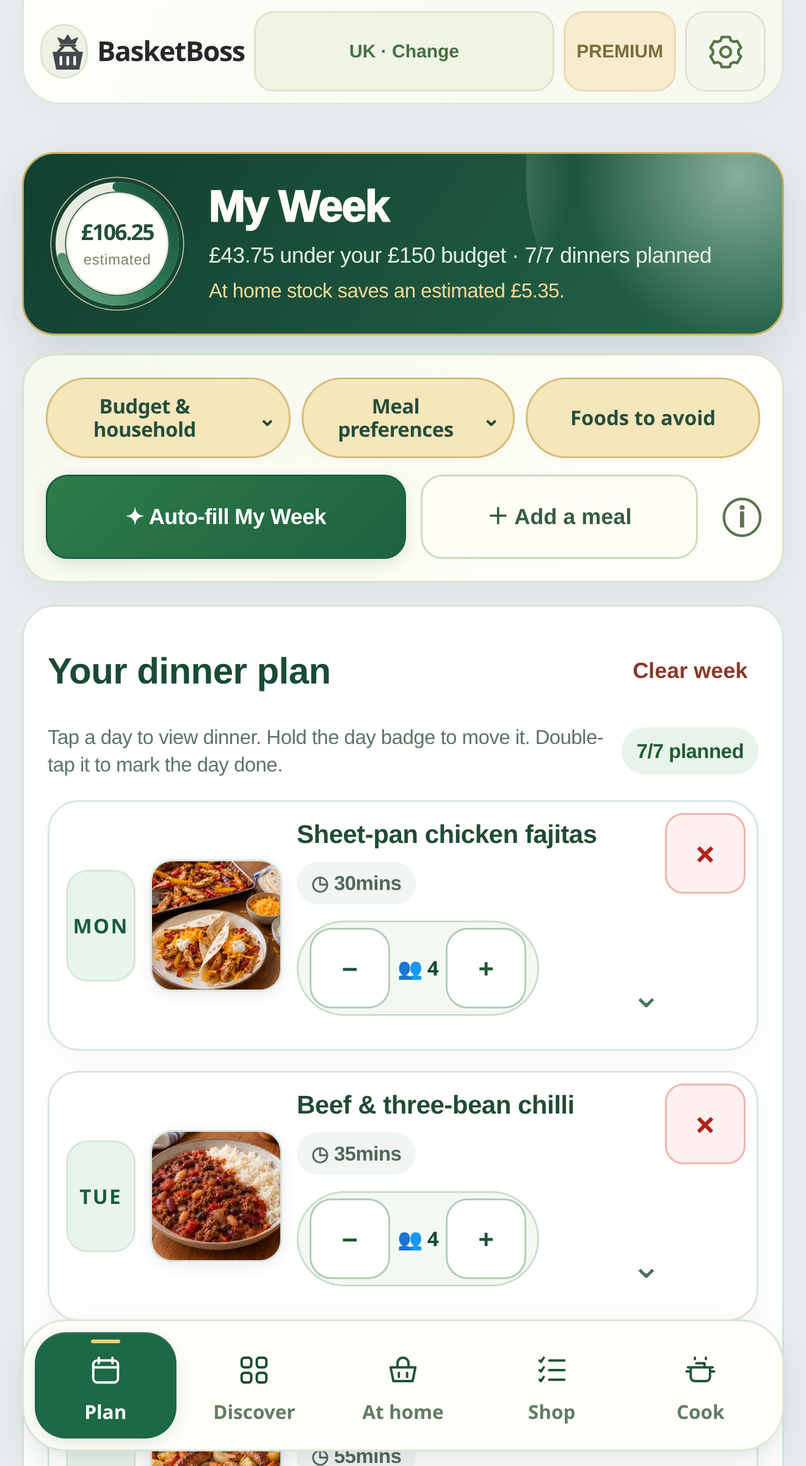
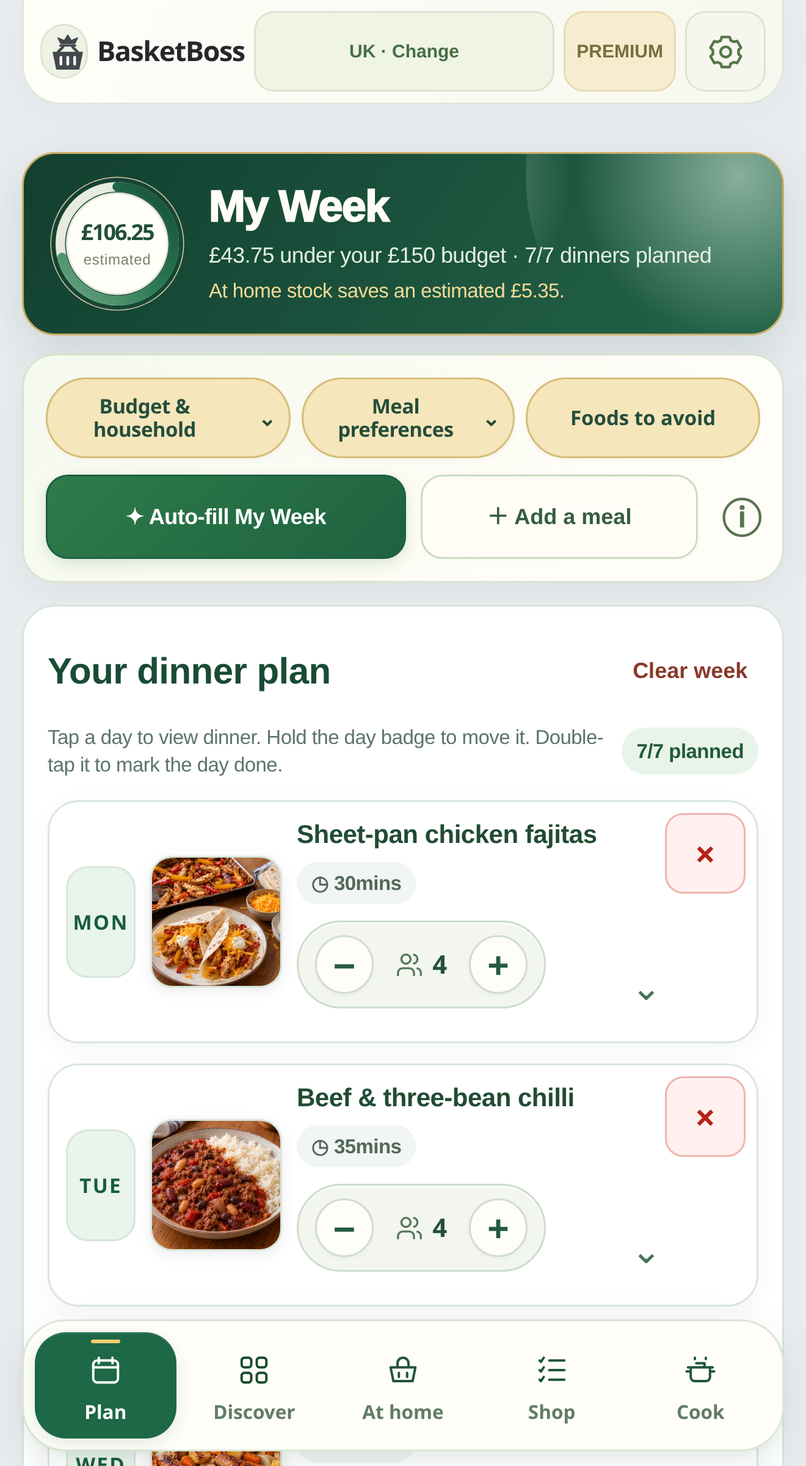
Refine per-meal servings pills with smaller circular controls

diff --git a/service-worker.js b/service-worker.js
@@ -2,10 +2,10 @@
  * Caches app pages and assets only; no personal localStorage or sync data is transmitted.
  * Food photographs outside the preview are cached only after being viewed, where supported.
  */
-const CACHE = 'basketboss-premium-secure-shell-20261105-v64-daydone1';
+const CACHE = 'basketboss-premium-secure-shell-20261105-v65-servings1';
 const IMAGE_CACHE = 'basketboss-v20261102-audited-images-v2';
 const APP_BASE = new URL(self.registration.scope);
-const CORE = ['bb-cook-method.js','bb-cook-method.js?v=20261105-cook1','bb-receipt-inventory-core.mjs?v=20261105-business1','bb-yellow-stickers.js','bb-yellow-stickers-ui.js','bb-yellow-stickers-ui.css','bb-reduced-stock.js','bb-reduced-purchases.js','bb-yellow-stickers.js?v=20261105-reduced1','bb-yellow-stickers-ui.js?v=20261105-preflight1','bb-yellow-stickers-ui.css?v=20261105-reduced1','bb-reduced-stock.js?v=20261105-business1','bb-reduced-purchases.js?v=20261105-business1','bb-kitchen-prices.js','bb-kitchen-prices.js?v=20261105-shop-confirm1','bb-shop-subcategories.js','bb-shop-subcategories.css','bb-essentials-confirm.js','bb-essentials-confirm.css','bb-shop-subcategories.js?v=20261105-shop-confirm1','bb-shop-subcategories.css?v=20261105-shop-confirm1','bb-essentials-confirm.js?v=20261105-preflight1','bb-essentials-confirm.css?v=20261105-shop-confirm1','bb-kitchen-review.js','bb-kitchen-review.css','bb-kitchen-review.js?v=20261105-preflight1','bb-kitchen-review.css?v=20261105-shop-confirm1','bb-dietary-preferences.js','bb-meal-preferences.js','bb-meal-preferences.css','bb-dietary-preferences.js?v=20261104-diets1','bb-meal-preferences.js?v=20261104-diets1','bb-meal-preferences.css?v=20261104-diets1','bb-auth-callback.js','bb-auth-flow.js','bb-auth-flow.css','bb-auth-sdk.js','bb-auth-callback.js?v=20261104-auth1','bb-auth-flow.js?v=20261105-preflight1','bb-auth-flow.css?v=20261104-auth1','bb-auth-sdk.js?v=20261104-auth1','bb-account-polish.js?v=20261105-preflight1','bb-tab-swipe.js','bb-tab-swipe.js?v=20261104-swipe1','bb-tab-viewport.js?v=20261105-preflight1','bb-saved-weeks.js','bb-saved-weeks.css','bb-saved-weeks.js?v=20261103-weeks1','bb-saved-weeks.css?v=20261103-weeks1','bb-pantry-camera.js','bb-pantry-camera.js?v=20261102-camera1','bb-pantry-camera.css','bb-pantry-camera.css?v=20261102-camera1','bb-cook-experience.css','bb-cook-experience.css?v=20261105-cook1','bb-account-deletion.css?v=20261101-recovery1','bb-account-deletion.js?v=20261101-apple1','bb-food-visuals.css?v=20261031-food2','bb-food-visuals.js?v=20261031-food2','bb-navigation-polish.js?v=20261101-polish1','bb-ux-cleanup.css?v=20261028-ux1','bb-cold-preview.css?v=20261028-conversion-1','bb-funnel.css?v=20261028-v1','bb-intro-trial.css?v=bb-account-first-20261027-v1','bb-us-market.css?v=173us1','bb-install.css?v=173install1','bb-welcome-splash.css?v=20261101-brand4','bb173-final-polish.css?v=173polish1','bb-premium-features.css?v=bbprodmodal20261027','bb-premium-preview-config.js?v=1743leftoverpremium','bb174-trial-ux.css?v=174trial1','bb174-trial-ux.js?v=bbprodmodal20261027','bb-real-app-tour.css?v=17513real1','bb-beta-six-fixes.css?v=20261104-essentials1','bb-beta-launch-polish.css?v=1768','bb-consolidated-qa.css?v=20261025-r1','bb-beta-five.css?v=20261025-five','bb-purchase-choice.css?v=20261025-choice-v2','bb-membership-settings.css?v=bbsecure1','bb-membership-settings.js?v=20261101-apple1','basketboss-aisles-v20.js?v=bb82-aisle-20261024','bb-supermarkets.js?v=20261105-reduced1','bb-receipt-quantity.js?v=20261105-business1','bb-duration.js?v=20261102-duration2','bb-price-scan.js?v=20261105-reduced1','basketboss-pricing-v19.js?v=20261105-business1','bb-serving-scale.js?v=20261103-kitchen2','bb-recipe-measures.js?v=20261102-measures1','bb-cook-step-layout.js?v=20261105-cook1','bb-cook-pantry.js?v=20261102-pantry1','bb-cook-clarity.css?v=20261102-loop2','bb-weekly-essentials.js?v=20261105-shop-confirm1','bb-receipt-scanner.js?v=20261105-preflight1','bb-receipt-scanner.css?v=20261031-receipt-pantry','shopping-inventory.js?v=20261105-business1','bb-intro-trial.js?v=bb-account-first-20261027-v1','bb-how-it-works.css?v=20261102-guide1','bb-how-it-works.js?v=20261105-reduced1','bb-cold-preview.js?v=20261028-conversion-1','bb-funnel.js?v=20261028-v1','bb-ux-cleanup.js?v=20261028-ux1','bb-us-market.js?v=20261102-loop2','bb-install.js?v=173install1','bb-welcome-splash.js?v=20261101-signin2','bb-real-app-tour-v82.js?v=20261105-reduced1','bb-cloudflare-qa.js?v=17513-owner1','bb-mobile-beta-polish.js?v=20261024-1','bb-beta-six-fixes.js?v=20261105-shop-confirm1','bb-beta-launch-polish.js?v=1768','bb-consolidated-qa.js?v=20261025-r1','bb-beta-five-nav.js?v=20261025-five','bb-settings-premium-polish.css?v=20261026a','bb-mobile-three-20261027.css?v=20261027-mobile-3','bb-shop-cook-clarity.css?v=20261028-r1','bb-servings-mobile-polish.css?v=20261029-preview2','bb-partner-signup-prompt.css?v=partner-main1','bb-partner-signup-prompt.js?v=partner-main1','bb-household-sharing.css?v=20261030-rc1','bb-household-sharing.js?v=20261031-account-compliance','bb-recipe-ingredient-layout.css?v=20261031-sidebar','bb-pantry-deduction.js?v=20261105-business1','bb-featured-framing.js?v=20261102-frame1','bb-account-deletion.js?v=20261101-recovery1','make-a-meal.css?v=17.3-unified3','premium-upgrade.css?v=bb173premium1','bb-light-meal.css?v=173-light-1','bb-premium-features.css?v=173premiumfree1','bb-premium-preview-config.js?v=173premiumfree1','bb174-trial-ux.js?v=174trial1','bb-mobile-beta-polish.css?v=20261024-1','bb-servings-mobile-polish.css?v=20261029-preview1','bb-premium-feature-badges.js?v=20261101-badge1','bb-cook-studio.css?v=20261101-cook1','bb-cook-studio.js?v=20261101-cook1','bb-cook-result.css?v=20261101-cook1','bb-cook-result.js?v=20261105-cook1','bb-meal-image.css?v=20261101-cook1','bb-meal-image.js?v=20261101-cook1','bb-account-polish.css?v=20261105-preflight1','bb-premium-preview-config.js?v=1743-premium-leftovers','make-a-meal.js?v=20261105-cook1','premium-upgrade.js?v=bb-native-ai-open-20261027-v1','bb-real-app-tour.js?v=17513real1','bb-beta-landing.css?v=20261030-finalmobile4','bb-smart-receipt-landing.css?v=20261031-family-preview','bb-family-landing.css?v=20261105-simple1','bb-family-landing.js?v=20261105-simple1','basketboss-aisles-v20.js?v=bb-meal-packs-20261031','bb-duration.js?v=20261102-durations1','bb-beta-landing.js?v=20261103-feedback1','bb-featured-framing.js','bb-duration.js','bb-recipe-measures.js','bb-cook-method.js','bb-cook-step-layout.js','bb-cook-pantry.js','bb-cook-clarity.css','bb-receipt-quantity.js','bb-pantry-deduction.js','bb-how-it-works.js','bb-how-it-works.css','bb-cook-speech-text.js','bb-cook-speech-text.js?v=20261105-cook1','bb-cook-tts.js','bb-cook-assistant.js','bb-cook-assistant.js?v=20261105-cook1','bb-cook-tts.js?v=20261104-mentor-stream1','bb-session.js','bb-session.js?v=20261102-session1','bb-plan-move.js','bb-plan-move.js?v=20261102-drag1','bb-plan-drag.js','bb-plan-drag.js?v=20261105-daydone1','bb-plan-drag.css','bb-plan-drag.css?v=20261105-daydone1','bb-recipe-editorial.js','bb-recipe-editorial.js?v=20261102-editorial4','bb-recipe-planning.js?v=20261102-editorial3','bb-shared-shopping.js','bb-shared-shopping.css','bb-shared-shopping.js?v=20261102-loop2','bb-shared-shopping.css?v=20261102-loop2','bb-home.js','bb-home.js?v=20261105-business1','bb-kitchen-choice-rules.mjs','bb-navigation-polish.css?v=20261102-loop3','bb-simple-layout.js','bb-simple-layout.css','bb-simple-layout.js?v=20261101-simple1','bb-simple-layout.css?v=20261102-loop2','bb-weekly-shop.js','bb-weekly-shop.css','bb-weekly-shop.js?v=20261105-preflight1','bb-weekly-shop.css?v=20261101-weeklyshop1','bb-kitchen-essentials.js','bb-kitchen-essentials.css','bb-keyboard-layout.js','bb-keyboard-layout.css','bb-kitchen-essentials.js?v=20261103-feedback1','bb-kitchen-essentials.css?v=20261102-fourchoices1','bb-keyboard-layout.js?v=20261105-preflight1','bb-keyboard-layout.css?v=20261105-preflight2','bb-onboarding-v2.js?v=20261103-keyboard3','bb-onboarding-v2.css?v=20261101-signin3','bb-premium-features.js?v=20261105-preflight1','bb-premium-feature-badges.js','bb-premium-feature-badges.css','bb-premium-feature-badges.js?v=20261101-weeklyshop1','bb-premium-feature-badges.css?v=20261101-badge1','bb-receipt-host.js?v=20261105-business1','bb-receipt-host.css?v=20261101-receipt-tab1','bb-membership-compare.js?v=20261105-reduced1','bb-membership-compare.css?v=20261101-member1','bb-verified-premium-ui.js?v=20261101-member1','bb-plan-premium-polish.js?v=20261101-autofill3','bb-plan-premium-polish.css?v=20261103-plan1','bb-account-polish.js?v=20261105-preflight1','bb-account-polish.css?v=20261105-preflight1','bb-cook-plan-hotfix.css?v=20261101-corner2','bb-membership-compare.js','bb-membership-compare.css','bb-verified-premium-ui.js','bb-cook-plan-hotfix.css','basketboss-latest-guide.html','bb-real-app-tour-v82.js','bb-plan-premium-polish.js','bb-plan-premium-polish.css','bb-cook-studio.js','bb-cook-studio.js?v=20261103-photo-premium1','bb-cook-studio.css','bb-cook-studio.css?v=20261103-photo-premium1','bb-cook-result.js','bb-cook-result.css','bb-meal-image.js','bb-meal-image.css','bb-navigation-polish.js','bb-navigation-polish.css','bb-account-polish.js','bb-account-polish.css','bb-food-visuals.js','bb-food-visuals.css','bb-account-deletion.js','bb-account-deletion.css','terms.html','bb-receipt-host.js','bb-receipt-host.css','bb-receipt-inventory.js','bb-receipt-inventory-core.mjs','bb-receipt-scanner.js','bb-receipt-scanner.css','bb-weekly-essentials.js','bb-price-scan.js','bb-supermarkets.js','supermarket-price-observations.json','bb-funnel.css','bb-funnel.js','bb-consolidated-qa.css','bb-consolidated-qa.js','bb-culinary-enhancements.js','bb-culinary.css','index.html','tutorial.html','bb-real-app-tour.css','bb-real-app-tour.js','bb-cloudflare-qa.js','privacy.html','make-a-meal.html','make-a-meal.css','bb174-trial-ux.css','bb174-trial-ux.js','bb-premium-features.css','bb-premium-preview-config.js','bb-premium-features.js','bb-light-meal.css','make-a-meal.js','make-a-meal.js?v=20261105-cook1','premium-upgrade.js','premium-upgrade.css','bb-intro-trial.js','bb-intro-trial.css','bb-us-market.js','bb-us-market.css','bb173-final-polish.css','bb-welcome-splash.js','bb-welcome-splash.css','bb-install.js','bb-install.css','shopping-inventory.js','bb-beta-launch-polish.js','bb-beta-launch-polish.css','bb-beta-six-fixes.css','bb-beta-six-fixes.js','bb-beta-five.css','bb-beta-five-nav.js','bb-recipe-planning.js','bb-recipe-ingredient-layout.css','bb-purchase-choice.css',
+const CORE = ['bb-cook-method.js','bb-cook-method.js?v=20261105-cook1','bb-receipt-inventory-core.mjs?v=20261105-business1','bb-yellow-stickers.js','bb-yellow-stickers-ui.js','bb-yellow-stickers-ui.css','bb-reduced-stock.js','bb-reduced-purchases.js','bb-yellow-stickers.js?v=20261105-reduced1','bb-yellow-stickers-ui.js?v=20261105-preflight1','bb-yellow-stickers-ui.css?v=20261105-reduced1','bb-reduced-stock.js?v=20261105-business1','bb-reduced-purchases.js?v=20261105-business1','bb-kitchen-prices.js','bb-kitchen-prices.js?v=20261105-shop-confirm1','bb-shop-subcategories.js','bb-shop-subcategories.css','bb-essentials-confirm.js','bb-essentials-confirm.css','bb-shop-subcategories.js?v=20261105-shop-confirm1','bb-shop-subcategories.css?v=20261105-shop-confirm1','bb-essentials-confirm.js?v=20261105-preflight1','bb-essentials-confirm.css?v=20261105-shop-confirm1','bb-kitchen-review.js','bb-kitchen-review.css','bb-kitchen-review.js?v=20261105-preflight1','bb-kitchen-review.css?v=20261105-shop-confirm1','bb-dietary-preferences.js','bb-meal-preferences.js','bb-meal-preferences.css','bb-dietary-preferences.js?v=20261104-diets1','bb-meal-preferences.js?v=20261104-diets1','bb-meal-preferences.css?v=20261104-diets1','bb-auth-callback.js','bb-auth-flow.js','bb-auth-flow.css','bb-auth-sdk.js','bb-auth-callback.js?v=20261104-auth1','bb-auth-flow.js?v=20261105-preflight1','bb-auth-flow.css?v=20261104-auth1','bb-auth-sdk.js?v=20261104-auth1','bb-account-polish.js?v=20261105-preflight1','bb-tab-swipe.js','bb-tab-swipe.js?v=20261104-swipe1','bb-tab-viewport.js?v=20261105-preflight1','bb-saved-weeks.js','bb-saved-weeks.css','bb-saved-weeks.js?v=20261103-weeks1','bb-saved-weeks.css?v=20261103-weeks1','bb-pantry-camera.js','bb-pantry-camera.js?v=20261102-camera1','bb-pantry-camera.css','bb-pantry-camera.css?v=20261102-camera1','bb-cook-experience.css','bb-cook-experience.css?v=20261105-cook1','bb-account-deletion.css?v=20261101-recovery1','bb-account-deletion.js?v=20261101-apple1','bb-food-visuals.css?v=20261031-food2','bb-food-visuals.js?v=20261031-food2','bb-navigation-polish.js?v=20261101-polish1','bb-ux-cleanup.css?v=20261028-ux1','bb-cold-preview.css?v=20261028-conversion-1','bb-funnel.css?v=20261028-v1','bb-intro-trial.css?v=bb-account-first-20261027-v1','bb-us-market.css?v=173us1','bb-install.css?v=173install1','bb-welcome-splash.css?v=20261101-brand4','bb173-final-polish.css?v=173polish1','bb-premium-features.css?v=bbprodmodal20261027','bb-premium-preview-config.js?v=1743leftoverpremium','bb174-trial-ux.css?v=174trial1','bb174-trial-ux.js?v=bbprodmodal20261027','bb-real-app-tour.css?v=17513real1','bb-beta-six-fixes.css?v=20261104-essentials1','bb-beta-launch-polish.css?v=1768','bb-consolidated-qa.css?v=20261025-r1','bb-beta-five.css?v=20261025-five','bb-purchase-choice.css?v=20261025-choice-v2','bb-membership-settings.css?v=bbsecure1','bb-membership-settings.js?v=20261101-apple1','basketboss-aisles-v20.js?v=bb82-aisle-20261024','bb-supermarkets.js?v=20261105-reduced1','bb-receipt-quantity.js?v=20261105-business1','bb-duration.js?v=20261102-duration2','bb-price-scan.js?v=20261105-reduced1','basketboss-pricing-v19.js?v=20261105-business1','bb-serving-scale.js?v=20261103-kitchen2','bb-recipe-measures.js?v=20261102-measures1','bb-cook-step-layout.js?v=20261105-cook1','bb-cook-pantry.js?v=20261102-pantry1','bb-cook-clarity.css?v=20261102-loop2','bb-weekly-essentials.js?v=20261105-shop-confirm1','bb-receipt-scanner.js?v=20261105-preflight1','bb-receipt-scanner.css?v=20261031-receipt-pantry','shopping-inventory.js?v=20261105-business1','bb-intro-trial.js?v=bb-account-first-20261027-v1','bb-how-it-works.css?v=20261102-guide1','bb-how-it-works.js?v=20261105-reduced1','bb-cold-preview.js?v=20261028-conversion-1','bb-funnel.js?v=20261028-v1','bb-ux-cleanup.js?v=20261028-ux1','bb-us-market.js?v=20261102-loop2','bb-install.js?v=173install1','bb-welcome-splash.js?v=20261101-signin2','bb-real-app-tour-v82.js?v=20261105-reduced1','bb-cloudflare-qa.js?v=17513-owner1','bb-mobile-beta-polish.js?v=20261024-1','bb-beta-six-fixes.js?v=20261105-shop-confirm1','bb-beta-launch-polish.js?v=1768','bb-consolidated-qa.js?v=20261025-r1','bb-beta-five-nav.js?v=20261025-five','bb-settings-premium-polish.css?v=20261026a','bb-mobile-three-20261027.css?v=20261027-mobile-3','bb-shop-cook-clarity.css?v=20261028-r1','bb-servings-mobile-polish.css?v=20261105-servings1','bb-partner-signup-prompt.css?v=partner-main1','bb-partner-signup-prompt.js?v=partner-main1','bb-household-sharing.css?v=20261030-rc1','bb-household-sharing.js?v=20261031-account-compliance','bb-recipe-ingredient-layout.css?v=20261031-sidebar','bb-pantry-deduction.js?v=20261105-business1','bb-featured-framing.js?v=20261102-frame1','bb-account-deletion.js?v=20261101-recovery1','make-a-meal.css?v=17.3-unified3','premium-upgrade.css?v=bb173premium1','bb-light-meal.css?v=173-light-1','bb-premium-features.css?v=173premiumfree1','bb-premium-preview-config.js?v=173premiumfree1','bb174-trial-ux.js?v=174trial1','bb-mobile-beta-polish.css?v=20261024-1','bb-servings-mobile-polish.css?v=20261029-preview1','bb-premium-feature-badges.js?v=20261101-badge1','bb-cook-studio.css?v=20261101-cook1','bb-cook-studio.js?v=20261101-cook1','bb-cook-result.css?v=20261101-cook1','bb-cook-result.js?v=20261105-cook1','bb-meal-image.css?v=20261101-cook1','bb-meal-image.js?v=20261101-cook1','bb-account-polish.css?v=20261105-preflight1','bb-premium-preview-config.js?v=1743-premium-leftovers','make-a-meal.js?v=20261105-cook1','premium-upgrade.js?v=bb-native-ai-open-20261027-v1','bb-real-app-tour.js?v=17513real1','bb-beta-landing.css?v=20261030-finalmobile4','bb-smart-receipt-landing.css?v=20261031-family-preview','bb-family-landing.css?v=20261105-simple1','bb-family-landing.js?v=20261105-simple1','basketboss-aisles-v20.js?v=bb-meal-packs-20261031','bb-duration.js?v=20261102-durations1','bb-beta-landing.js?v=20261103-feedback1','bb-featured-framing.js','bb-duration.js','bb-recipe-measures.js','bb-cook-method.js','bb-cook-step-layout.js','bb-cook-pantry.js','bb-cook-clarity.css','bb-receipt-quantity.js','bb-pantry-deduction.js','bb-how-it-works.js','bb-how-it-works.css','bb-cook-speech-text.js','bb-cook-speech-text.js?v=20261105-cook1','bb-cook-tts.js','bb-cook-assistant.js','bb-cook-assistant.js?v=20261105-cook1','bb-cook-tts.js?v=20261104-mentor-stream1','bb-session.js','bb-session.js?v=20261102-session1','bb-plan-move.js','bb-plan-move.js?v=20261102-drag1','bb-plan-drag.js','bb-plan-drag.js?v=20261105-daydone1','bb-plan-drag.css','bb-plan-drag.css?v=20261105-daydone1','bb-recipe-editorial.js','bb-recipe-editorial.js?v=20261102-editorial4','bb-recipe-planning.js?v=20261102-editorial3','bb-shared-shopping.js','bb-shared-shopping.css','bb-shared-shopping.js?v=20261102-loop2','bb-shared-shopping.css?v=20261102-loop2','bb-home.js','bb-home.js?v=20261105-business1','bb-kitchen-choice-rules.mjs','bb-navigation-polish.css?v=20261102-loop3','bb-simple-layout.js','bb-simple-layout.css','bb-simple-layout.js?v=20261101-simple1','bb-simple-layout.css?v=20261102-loop2','bb-weekly-shop.js','bb-weekly-shop.css','bb-weekly-shop.js?v=20261105-preflight1','bb-weekly-shop.css?v=20261101-weeklyshop1','bb-kitchen-essentials.js','bb-kitchen-essentials.css','bb-keyboard-layout.js','bb-keyboard-layout.css','bb-kitchen-essentials.js?v=20261103-feedback1','bb-kitchen-essentials.css?v=20261102-fourchoices1','bb-keyboard-layout.js?v=20261105-preflight1','bb-keyboard-layout.css?v=20261105-preflight2','bb-onboarding-v2.js?v=20261103-keyboard3','bb-onboarding-v2.css?v=20261101-signin3','bb-premium-features.js?v=20261105-preflight1','bb-premium-feature-badges.js','bb-premium-feature-badges.css','bb-premium-feature-badges.js?v=20261101-weeklyshop1','bb-premium-feature-badges.css?v=20261101-badge1','bb-receipt-host.js?v=20261105-business1','bb-receipt-host.css?v=20261101-receipt-tab1','bb-membership-compare.js?v=20261105-reduced1','bb-membership-compare.css?v=20261101-member1','bb-verified-premium-ui.js?v=20261101-member1','bb-plan-premium-polish.js?v=20261101-autofill3','bb-plan-premium-polish.css?v=20261103-plan1','bb-account-polish.js?v=20261105-preflight1','bb-account-polish.css?v=20261105-preflight1','bb-cook-plan-hotfix.css?v=20261101-corner2','bb-membership-compare.js','bb-membership-compare.css','bb-verified-premium-ui.js','bb-cook-plan-hotfix.css','basketboss-latest-guide.html','bb-real-app-tour-v82.js','bb-plan-premium-polish.js','bb-plan-premium-polish.css','bb-cook-studio.js','bb-cook-studio.js?v=20261103-photo-premium1','bb-cook-studio.css','bb-cook-studio.css?v=20261103-photo-premium1','bb-cook-result.js','bb-cook-result.css','bb-meal-image.js','bb-meal-image.css','bb-navigation-polish.js','bb-navigation-polish.css','bb-account-polish.js','bb-account-polish.css','bb-food-visuals.js','bb-food-visuals.css','bb-account-deletion.js','bb-account-deletion.css','terms.html','bb-receipt-host.js','bb-receipt-host.css','bb-receipt-inventory.js','bb-receipt-inventory-core.mjs','bb-receipt-scanner.js','bb-receipt-scanner.css','bb-weekly-essentials.js','bb-price-scan.js','bb-supermarkets.js','supermarket-price-observations.json','bb-funnel.css','bb-funnel.js','bb-consolidated-qa.css','bb-consolidated-qa.js','bb-culinary-enhancements.js','bb-culinary.css','index.html','tutorial.html','bb-real-app-tour.css','bb-real-app-tour.js','bb-cloudflare-qa.js','privacy.html','make-a-meal.html','make-a-meal.css','bb174-trial-ux.css','bb174-trial-ux.js','bb-premium-features.css','bb-premium-preview-config.js','bb-premium-features.js','bb-light-meal.css','make-a-meal.js','make-a-meal.js?v=20261105-cook1','premium-upgrade.js','premium-upgrade.css','bb-intro-trial.js','bb-intro-trial.css','bb-us-market.js','bb-us-market.css','bb173-final-polish.css','bb-welcome-splash.js','bb-welcome-splash.css','bb-install.js','bb-install.css','shopping-inventory.js','bb-beta-launch-polish.js','bb-beta-launch-polish.css','bb-beta-six-fixes.css','bb-beta-six-fixes.js','bb-beta-five.css','bb-beta-five-nav.js','bb-recipe-planning.js','bb-recipe-ingredient-layout.css','bb-purchase-choice.css',
               'bb-ingredient-preferences.js','bb-ingredient-picker.js','bb-ingredient-picker.css',
               'bb-evening-pivot.js','bb-evening-pivot-app.js','bb-evening-pivot-ui.js','bb-evening-pivot-ui.css','bb-cook-voice.js','bb-cook-voice.css',
               'bb-evening-pivot.js?v=20261101-pivot1','bb-evening-pivot-app.js?v=20261103-feedback1','bb-evening-pivot-ui.js?v=20261102-loop2','bb-evening-pivot-ui.css?v=20261101-pivot2','bb-cook-voice.js?v=20261104-mentor-stream1','bb-cook-voice.css?v=20261103-mentor1',

diff --git a/bb-servings-mobile-polish.css b/bb-servings-mobile-polish.css
@@ -99,3 +99,37 @@ body:has(#bbpolRegionPill) .shell > #bb17RegionCard.bb17513-region-collapsed{dis
 #app.bbnext-plan .bbfeed-night-row {
   display: none !important;
 }
+
+/* One quiet control surface. The buttons retain full 44px touch targets;
+   only their visible circular face is smaller than the surrounding pill. */
+html body #app.bbnext-plan .bbfeed-meta .bbfeed-meal{
+ display:inline-grid!important;grid-template-columns:44px minmax(40px,auto) 44px;
+ align-items:center;gap:0!important;width:136px;min-width:136px!important;flex:0 0 auto!important;
+ height:48px;padding:1px 3px!important;
+ border:1px solid #ccddcd;border-radius:999px;background:#f2f6ef;
+ box-shadow:inset 0 1px 0 #ffffffb3;vertical-align:middle;
+}
+html body #app.bbnext-plan .bbfeed-meta .bbfeed-meal button{
+ position:relative;isolation:isolate;display:inline-grid;place-items:center;
+ width:44px;height:44px;min-width:44px!important;min-height:44px!important;
+ padding:0;border:0!important;border-radius:50%!important;background:transparent!important;
+ box-shadow:none!important;color:#245b40;font:650 21px/1 system-ui,sans-serif;
+}
+html body #app.bbnext-plan .bbfeed-meta .bbfeed-meal button::before{
+ content:'';position:absolute;inset:6px;z-index:-1;border:1px solid #d0ddcb;
+ border-radius:50%;background:#fffdf7;box-shadow:0 1px 2px #173f2b0a;
+ transition:background-color .15s ease,border-color .15s ease,transform .15s ease;
+}
+html body #app.bbnext-plan .bbfeed-meta .bbfeed-meal button:not(:disabled):active::before{
+ transform:scale(.92);background:#e5efdf;border-color:#9ab594;
+}
+html body #app.bbnext-plan .bbfeed-meta .bbfeed-meal button:focus-visible{
+ outline:2px solid #b28d3f;outline-offset:-2px;
+}
+html body #app.bbnext-plan .bbfeed-meta .bbfeed-value{
+ display:inline-flex;align-items:center;justify-content:center;gap:5px;min-width:40px;
+ color:#244f38;font:700 14px/1 system-ui,sans-serif;font-variant-numeric:tabular-nums;
+}
+html body #app.bbnext-plan .bbfeed-value svg{width:15px;height:15px;flex:none;color:#55775c}
+@media(hover:hover){html body #app.bbnext-plan .bbfeed-meta .bbfeed-meal button:not(:disabled):hover::before{background:#edf4e7;border-color:#a9c0a0}}
+@media(prefers-reduced-motion:reduce){html body #app.bbnext-plan .bbfeed-meta .bbfeed-meal button::before{transition:none}}

diff --git a/app.html b/app.html
@@ -5434,7 +5434,7 @@ function bbFeedingDayStepper(day,recipe,position){
  const pill=document.createElement('span');pill.className='bbfeed-control bbfeed-meal';
  pill.dataset.bbfeedDay=day;pill.dataset.bbfeedPos=position;
  pill.setAttribute('role','group');pill.setAttribute('aria-label',day+' dinner servings');
- const value=document.createElement('span');value.className='bbfeed-value';value.textContent='👥 '+current;
+ const value=document.createElement('span');value.className='bbfeed-value';value.setAttribute('aria-label',current+' people');value.innerHTML='<svg viewBox="0 0 24 24" fill="none" stroke="currentColor" stroke-width="1.8" stroke-linecap="round" stroke-linejoin="round" aria-hidden="true"><path d="M16 21v-2a4 4 0 0 0-4-4H6a4 4 0 0 0-4 4v2M22 21v-2a4 4 0 0 0-3-3.87M16 3.13a4 4 0 0 1 0 7.75"/><circle cx="9" cy="7" r="4"/></svg><span>'+current+'</span>';
  for(const [delta,symbol,word] of [[-1,'−','Reduce'],[1,'+','Increase']]){
    const button=document.createElement('button');button.type='button';button.textContent=symbol;
    button.dataset.bbfeedDelta=String(delta);
@@ -12815,7 +12815,7 @@ body[data-bbnext-view="discover"] #app .bb175-discover-heading{padding-top:calc(
 <script defer src="bb-ingredient-picker.js?v=20261105-options1"></script>
 <link rel="stylesheet" href="bb-shop-cook-clarity.css?v=20261028-r1">
 <link rel="stylesheet" href="bb-cook-plan-hotfix.css?v=20261101-corner2">
-<link rel="stylesheet" href="bb-servings-mobile-polish.css?v=20261029-preview2">
+<link rel="stylesheet" href="bb-servings-mobile-polish.css?v=20261105-servings1">
 <link rel="stylesheet" href="bb-partner-signup-prompt.css?v=partner-main1">
 <script defer src="bb-partner-signup-prompt.js?v=partner-main1"></script>
 <link rel="stylesheet" href="bb-household-sharing.css?v=20261030-rc1">

diff --git a/index.html b/index.html
@@ -5434,7 +5434,7 @@ function bbFeedingDayStepper(day,recipe,position){
  const pill=document.createElement('span');pill.className='bbfeed-control bbfeed-meal';
  pill.dataset.bbfeedDay=day;pill.dataset.bbfeedPos=position;
  pill.setAttribute('role','group');pill.setAttribute('aria-label',day+' dinner servings');
- const value=document.createElement('span');value.className='bbfeed-value';value.textContent='👥 '+current;
+ const value=document.createElement('span');value.className='bbfeed-value';value.setAttribute('aria-label',current+' people');value.innerHTML='<svg viewBox="0 0 24 24" fill="none" stroke="currentColor" stroke-width="1.8" stroke-linecap="round" stroke-linejoin="round" aria-hidden="true"><path d="M16 21v-2a4 4 0 0 0-4-4H6a4 4 0 0 0-4 4v2M22 21v-2a4 4 0 0 0-3-3.87M16 3.13a4 4 0 0 1 0 7.75"/><circle cx="9" cy="7" r="4"/></svg><span>'+current+'</span>';
  for(const [delta,symbol,word] of [[-1,'−','Reduce'],[1,'+','Increase']]){
    const button=document.createElement('button');button.type='button';button.textContent=symbol;
    button.dataset.bbfeedDelta=String(delta);
@@ -12815,7 +12815,7 @@ body[data-bbnext-view="discover"] #app .bb175-discover-heading{padding-top:calc(
 <script defer src="bb-ingredient-picker.js?v=20261105-options1"></script>
 <link rel="stylesheet" href="bb-shop-cook-clarity.css?v=20261028-r1">
 <link rel="stylesheet" href="bb-cook-plan-hotfix.css?v=20261101-corner2">
-<link rel="stylesheet" href="bb-servings-mobile-polish.css?v=20261029-preview2">
+<link rel="stylesheet" href="bb-servings-mobile-polish.css?v=20261105-servings1">
 <link rel="stylesheet" href="bb-partner-signup-prompt.css?v=partner-main1">
 <script defer src="bb-partner-signup-prompt.js?v=partner-main1"></script>
 <link rel="stylesheet" href="bb-household-sharing.css?v=20261030-rc1">

diff --git a/docs/BUILD_21_TESTFLIGHT.md b/docs/BUILD_21_TESTFLIGHT.md
@@ -4,6 +4,8 @@ Build 21 includes Build 20. Plan now explains holding a day badge to move dinner
 
 Pantry category changes now close the previous section before scrolling, keep the tapped heading stable, and reuse inventory cards during quantity updates. Inner category containers grow with the document; the solid sticky toolbar and consistent amount-row heights remain stable. Inventory storage and stock calculations are unchanged.
 
+The per-meal servings control is a smaller cream pill with subtle round controls and a clean people icon. Each button retains a 44px touch target; portion limits, scaling and persistence are unchanged.
+
 The public landing page is shorter, with a real app screenshot, a qualified weekly savings target, yellow-sticker and stock benefits, and clear Free/Premium links. Existing authentication callbacks and Premium checks remain in place. The landing page is separate from the native app.
 
 Verification: the complete suite passed with 2,542 passing tests, zero failures, one platform skip and two existing TODOs. Real browser checks at 375px and 320px verify stable accordion/category navigation, one document scroller, identical known/unknown row heights, and unchanged pantry stock. Multi-digit quantity editing passed after the scroll fix. Mobile touch checks confirmed all-day depletion once, repeat-tap idempotence and green status after reload. Landing layout/auth checks passed at 320, 375, 768 and 1440px. The native bundle contains 935 files and 100 free recipes, with no protected recipe bundle; portable iOS verification passed. Native signing and upload still require Xcode on your Mac.
@@ -12,7 +14,7 @@ Verification: the complete suite passed with 2,542 passing tests, zero failures,
 
 ```bash
 bb_release_dir="$(mktemp -d "$HOME/BasketBoss-build21-XXXXXX")" &&
-git -c http.version=HTTP/1.1 clone --depth 1 --branch testflight-build21-release \
+git -c http.version=HTTP/1.1 clone --depth 1 --branch testflight-build21-plan-polish \
   https://github.com/jbatiste12-debug/BasketBoss.git "$bb_release_dir" &&
 cd "$bb_release_dir" &&
 npm ci &&
